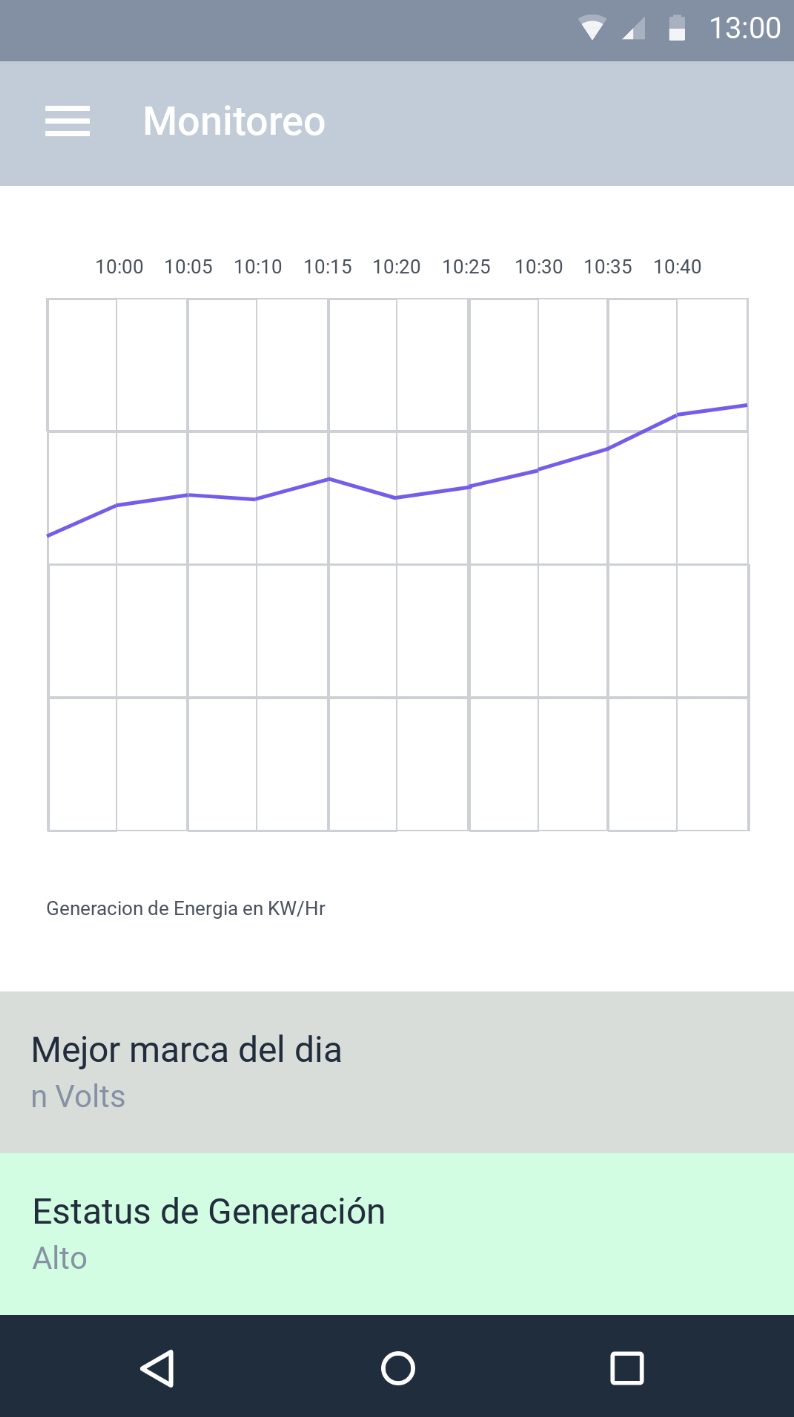
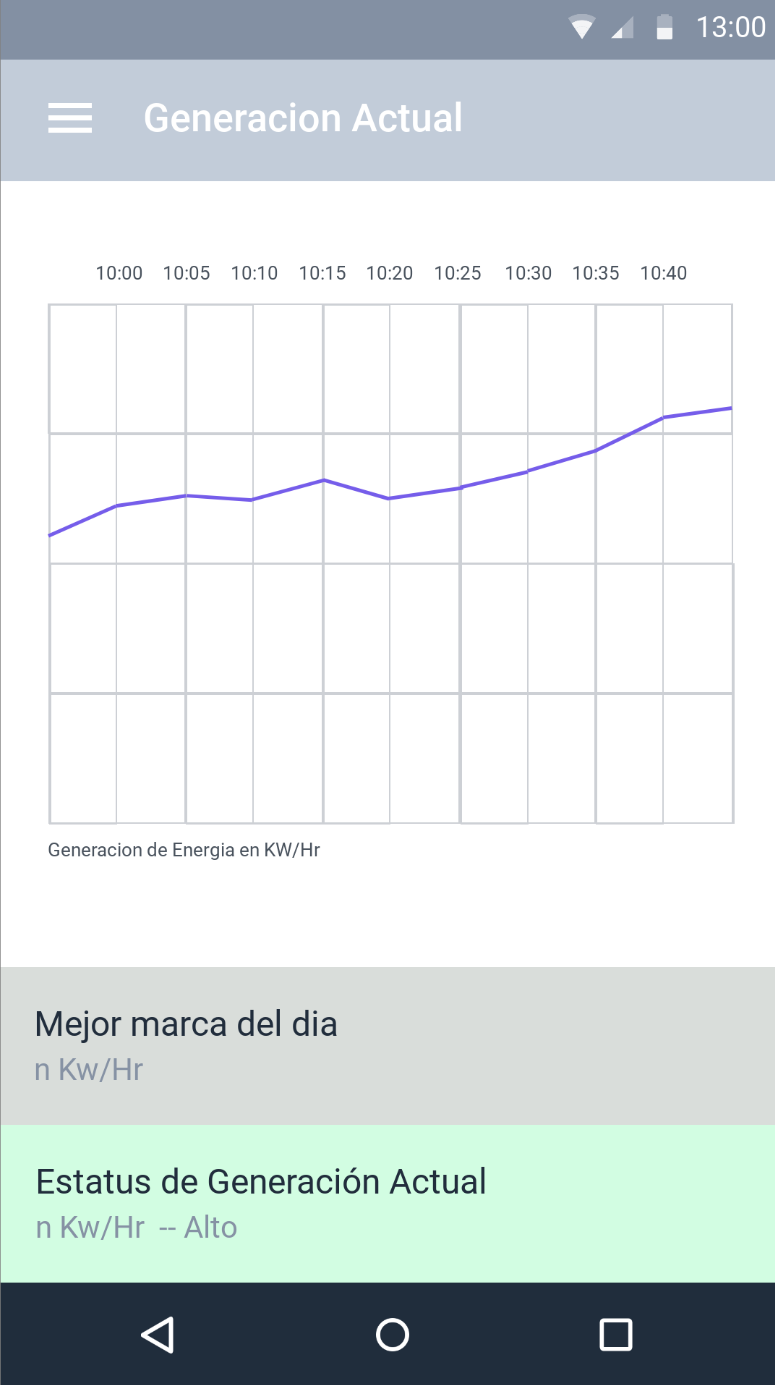
Updates from Overleaf

diff --git a/Capitulo4/software/submodulos/usuarios/cu/sub-u-cu1_5.tex b/Capitulo4/software/submodulos/usuarios/cu/sub-u-cu1_5.tex
@@ -1,13 +1,13 @@
 \subsubsection{SUB-U-CU1.5-Ver Gráfica de Generación de Energía en Tiempo Real}\label{SUB-U-CU1.5}
-La gráfica de generación en tiempo real se realizará haciendo una petición de los valores del día actual que el servidor tiene almacenado para graficarlos en la aplicación de usuario y posteriormente actualizar la gráfica de lineas por medio de peticiones al servidor en el tiempo establecido en la Regla de Negocio \ref{RN6}.
-\\ La comunicación se logrará mediante el patrón de intercambio de mensajes de la Regla de Negocio \ref{RN8} con el formato de datos establecido en la Regla de Negocio \ref{RN11}. 
+La gráfica de generación en tiempo real es un componente de la interfaz de usuario \hyperref[fig:monitoreo]{[IU1-Generacion Actual]} y se realizará haciendo una petición de los valores del día actual que el servidor tiene almacenado para graficarlos en la aplicación de usuario y posteriormente actualizar la gráfica de lineas por medio de peticiones al servidor en el tiempo establecido en la Regla de Negocio \ref{RN6}.
+\\ La comunicación se logrará mediante el patrón de intercambio de mensajes de la Regla de Negocio \ref{RN8} con el formato de datos establecido en la Regla de Negocio \ref{RN11}  
 
 \begin{longtable}{|J{5cm}|J{10.3cm}|}
 	\hline
 	\textbf{Nombre del caso de uso} &
 		SUB-U-CU1.5-Ver Gráfica de Generación en Tiempo Real \\ \hline
 	\textbf{Objetivo} &
-		Conseguir los valores del monitoreo para que la aplicación de usuario pueda construir una gráfica de lineas en tiempo real. \\ \hline
+		Conseguir los valores de Generacion de energía del día actual para que la aplicación de usuario pueda construir una gráfica de lineas en tiempo real. \\ \hline
 	\textbf{Actores} &
 		\begin{itemize}
 		    \item Usuario
@@ -15,7 +15,7 @@ La gráfica de generación en tiempo real se realizará haciendo una petición d
 			\item Aplicación de Usuario
 		\end{itemize} \\ \hline
 	\textbf{Disparador} & 
-	    El usuario inicia la aplicación de usuario, dando clic en el icono correspondiente a la aplicacion\\ \hline 
+	    El usuario inicia la aplicación de usuario, dando clic en el icono correspondiente a la aplicación\\ \hline 
 	\textbf{Entradas} & 
 		\begin{itemize}
 				\item{[Servidor]} Marca de tiempo
@@ -25,7 +25,7 @@ La gráfica de generación en tiempo real se realizará haciendo una petición d
 			\item{[Servidor]} Valor/Valores de generacion de energia acorde a la marca de tiempo
 		\end{itemize} \\ \hline
 	\textbf{Precondiciones} &
-		La aplicacion de usuario debe estar previamente configurada el Caso de Uso \ref{} \\ \hline
+		La aplicacion de usuario debe estar previamente configurada (ver Caso de Uso \ref{}) \\ \hline
 	\textbf{Postcondiciones} &
 		Ninguna.\\ \hline
 	\textbf{Condiciones de término} & 
@@ -54,20 +54,20 @@ La gráfica de generación en tiempo real se realizará haciendo una petición d
     \label{SUB-U-CU1.5:TP}
 	\begin{enumerate}
 	    \item {[Usuario]} Inicia la aplicación de usuario dando clic en el icono correspondiente a la aplicación. \hyperref[SUB-U-CU1.5:TA]{[Trayectoria alternativa A]}
-	    \item {[Aplicación de Usuario]} Envía la marca de tiempo actual. \hyperref[SUB-U-CU1.5:TB]{[Trayectoria alternativa B]} 
+	    \item {[Aplicación de Usuario]} Envía la marca de tiempo actual, sin la hora actual. \hyperref[SUB-U-CU1.5:TB]{[Trayectoria alternativa B]} 
 	    \item {[Servidor]} Recibe la petición, busca los valores almacenados hasta el momento del día de la marca de tiempo. \hyperref[SUB-U-CU1.5:TC]{[Trayectoria alternativa C]}
 	    \item {[Servidor]} Envía los valores correspondientes \hyperref[SUB-U-CU1.5:TD]{[Trayectoria alternativa D]} 
-	    \item {[Aplicación de Usuario]} Recibe los valores de monitoreo, muestra la interfaz de usuario \hyperref[fig:monitoreo]{[IU1-Monitoreo En Tiempo real]} con los datos obtenidos. \hyperref[SUB-U-CU1.5:TE]{[Trayectoria alternativa E]}
+	    \item {[Aplicación de Usuario]} Recibe los valores de monitoreo, muestra la interfaz de usuario \hyperref[fig:monitoreo]{[IU1-Generacion Actual]} con los datos obtenidos. \hyperref[SUB-U-CU1.5:TE]{[Trayectoria alternativa E]}
 	\end{enumerate}
 	Fin del caso de uso.
 
 \paragraph{Trayectoria alternativa A} \label{SUB-U-CU1.5:TA}
-	El usuario ya esta en la interfaz de usuario \hyperref[fig:monitoreo]{[IU1-Monitoreo En Tiempo real]}
+	El usuario ya esta dentro de la aplicación de usuario
 	\begin{enumerate}[label=A\arabic*.]
-		\item {[Aplicación de Usuario]} Transcurre el tiempo marcado por la Regla de Negocio \ref{RN6} y envía la marca de tiempo como petición al servidor. \hyperref[SUB-U-CU1.5:TF]{[Trayectoria alternativa F]} 
-		\item {[Servidor]} Recibe la petición, busca en sus registros por el valor correspondiente a la marca de tiempo. \hyperref[SUB-U-CU1.5:TC]{[Trayectoria alternativa C]} 
+		\item {[Aplicación de Usuario]} Transcurre el tiempo marcado por la Regla de Negocio \ref{RN6} y envía la marca de tiempo completa como petición al servidor. \hyperref[SUB-U-CU1.5:TF]{[Trayectoria alternativa F]} 
+		\item {[Servidor]} Recibe la petición, busca en sus registros por el valor correspondiente a la marca de tiempo. \hyperref[SUB-U-CU1.5:TI]{[Trayectoria alternativa I]} 
 		\item  {[Servidor]} Envía el valor correspondiente \hyperref[SUB-U-CU1.5:TG]{[Trayectoria alternativa G]}
-        \item {[Aplicación de Usuario]} Recibe el valor de monitoreo, actualiza la interfaz de usuario \hyperref[fig:monitoreo]{[IU1-Monitoreo En Tiempo real]} con el dato obtenido.
+        \item {[Aplicación de Usuario]} Recibe el valor de monitoreo, actualiza la interfaz de usuario \hyperref[fig:monitoreo]{[IU1-Generacion Actual]} con el dato obtenido.
         \hyperref[SUB-U-CU1.5:TH]{[Trayectoria alternativa H]}
         \item {[Aplicación de usuario]} Regresa al final de \hyperref[SUB-U-CU1.5:TP]{[Trayectoria Principal]}
 	\end{enumerate}
@@ -82,7 +82,7 @@ La gráfica de generación en tiempo real se realizará haciendo una petición d
 	Fin de la trayectoria alternativa.
 
 \paragraph{Trayectoria alternativa C} \label{SUB-U-CU1.5:TC}
-	La marca de tiempo requerida no existe en el servidor o es nulo su valor asociado.
+	La marca de tiempo requerida tiene valor nulo.
 	\begin{enumerate}[label=C\arabic*.]
 		\item {[Servidor]} Asigna el valor -1 a la respuesta para la aplicación de usuario.
 		\item {[Aplicación de usuario]} Regresa al punto 4 de \hyperref[SUB-U-CU1.5:TP]{[Trayectoria Principal]}
@@ -109,7 +109,7 @@ La gráfica de generación en tiempo real se realizará haciendo una petición d
 \paragraph{Trayectoria alternativa F} \label{SUB-U-CU1.5:TF}
 	Sin conexión con el servidor.
 	\begin{enumerate}[label=F\arabic*.]
-		\item {[Aplicación de usuario]} Asigna 0 como valor de monitoreo, actualiza la interfaz de usuario \hyperref[fig:monitoreo]{[IU1-Monitoreo En Tiempo real]}  y genera la notificación \hyperref[fig:Alerta Conexion]{[N1-Alerta de Conexión]}.
+		\item {[Aplicación de usuario]} Asigna 0 como valor de monitoreo y actualiza la interfaz de usuario \hyperref[fig:monitoreo]{[IU1-Generacion Actual]}.
 		\item {[Aplicación de usuario]} Regresa al final de \hyperref[SUB-U-CU1.5:TA]{[Trayectoria alternativa A]}
 	\end{enumerate}
 	Fin de la trayectoria alternativa.
@@ -118,7 +118,7 @@ La gráfica de generación en tiempo real se realizará haciendo una petición d
 	Sin conexión con el cliente.
 	\begin{enumerate}[label=G\arabic*.]
 		\item {[Servidor]} Aborta envió y espera por la siguiente petición.
-		\item {[Aplicación de usuario]} Transcurre el tiempo marcado por la Regla de Negocio \ref{RN6} y al no recibir respuesta del servidor en ese intervalo, asigna 0 como valor de generación de esa marca de tiempo, actualiza la interfaz de usuario \hyperref[fig:monitoreo]{[IU1-Monitoreo En Tiempo real]} y genera la notificación \hyperref[fig:Alerta Conexion]{[N1-Alerta de Conexión]}.
+		\item {[Aplicación de usuario]} Transcurre el tiempo marcado por la Regla de Negocio \ref{RN6} y al no recibir respuesta del servidor en ese intervalo, asigna 0 como valor de generación de esa marca de tiempo y actualiza la interfaz de usuario \hyperref[fig:monitoreo]{[IU1-Generacion Actual]}.
 		\item {[Aplicación de usuario]} Regresa al final de \hyperref[SUB-U-CU1.5:TA]{[Trayectoria alternativa A]}
 	\end{enumerate}
 	Fin de la trayectoria alternativa.
@@ -126,15 +126,16 @@ La gráfica de generación en tiempo real se realizará haciendo una petición d
 \paragraph{Trayectoria alternativa H} \label{SUB-U-CU1.5:TH}
 	El valor de generación es -1
 	\begin{enumerate}[label=H\arabic*.]
-		\item {[Aplicación de usuario]} Asigna como valor de generación 0, actualiza la interfaz de usuario \hyperref[fig:monitoreo]{[IU1-Monitoreo En Tiempo real]} y genera la notificación \hyperref[fig:Alerta Servidor]{[N3-Alerta de Servidor]}.
+		\item {[Aplicación de usuario]} Asigna como valor de generación 0 y actualiza la interfaz de usuario \hyperref[fig:monitoreo]{[IU1-Generacion Actual]}.
 		\item {[Aplicación de usuario]} Regresa al final de \hyperref[SUB-U-CU1.5:TA]{[Trayectoria alternativa A]}
 	\end{enumerate}
 	Fin de la trayectoria alternativa.
-	
+
 \paragraph{Trayectoria alternativa I} \label{SUB-U-CU1.5:TI}
-	El valor de generación es 0
+	La marca de tiempo requerida tiene valor nulo.
 	\begin{enumerate}[label=I\arabic*.]
-		\item {[Aplicación de usuario]}  Actualiza la interfaz de usuario \hyperref[fig:monitoreo]{[IU1-Monitoreo En Tiempo real]} y genera la notificación \hyperref[fig:Alerta Generacion]{[N2-Alerta de Generación]}.
-		\item {[Aplicación de usuario]} Regresa al final de \hyperref[SUB-U-CU1.5:TA]{[Trayectoria alternativa A]}
+		\item {[Servidor]} Asigna el valor -1 a la respuesta para la aplicación de usuario.
+		\item {[Aplicación de usuario]} Regresa al punto 3 de \hyperref[SUB-U-CU1.5:TP]{[Trayectoria alternativa A]}
 	\end{enumerate}
 	Fin de la trayectoria alternativa.
+

diff --git a/Capitulo4/software/submodulos/mediciones/cu/sub-m-cu1_13.tex b/Capitulo4/software/submodulos/mediciones/cu/sub-m-cu1_13.tex
@@ -1,0 +1,102 @@
+\subsubsection{SUB-U-CU1.13-Ver Estatus de Generación Actual}\label{SUB-U-CU1.13}
+La barra de estatus de generación actual es un componente de la interfaz  \hyperref[fig:monitoreo]{[IU1-Generacion Actual]}
+y es la encargada de mostrar el estatus de generación actual del sistema fotovoltaico, evaluándolo con la Regla de Negocio \ref{RN12}, con actualizaciones en el tiempo establecido la Regla de Negocio \ref{}, la comunicación con el servidor se logrará mediante el patrón de intercambio de mensajes de la Regla de Negocio \ref{RN8} con el formato de datos establecido en la Regla de Negocio \ref{RN11}   
+
+\begin{longtable}{|J{5cm}|J{10.3cm}|}
+	\hline
+	\textbf{Nombre del caso de uso} &
+		SUB-U-CU1.13-Ver Estatus de Generación Actual \\ \hline
+	\textbf{Objetivo} &
+		Conseguir el valor actual de generación de energía y mostrarlo al usuario. \\ \hline
+	\textbf{Actores} &
+		\begin{itemize}
+		    \item Usuario
+			\item Servidor embebido
+			\item Aplicación de Usuario
+		\end{itemize} \\ \hline
+	\textbf{Disparador} & 
+	    El usuario inicia la aplicación de usuario, dando clic en el icono correspondiente a la aplicación\\ \hline 
+	\textbf{Entradas} & 
+		\begin{itemize}
+				\item{[Servidor]} Petición por el valor actual
+		\end{itemize}\\ \hline 
+	\textbf{Salidas} & 
+		\begin{itemize}
+			\item{[Servidor]} Respuesta con valor generación actual
+		\end{itemize} \\ \hline
+	\textbf{Precondiciones} &
+		La aplicación de usuario debe estar previamente configurada (ver Caso de Uso \ref{}) \\ \hline
+	\textbf{Postcondiciones} &
+		Ninguna.\\ \hline
+	\textbf{Condiciones de término} & 
+		\begin{itemize}
+			\item La aplicación de usuario recibe el valor y muestra el estatus de generación actual.
+		\end{itemize} \\ \hline 
+	\textbf{Prioridad} & 
+		Media. \\ \hline
+	\textbf{Errores} & 
+		\begin{itemize}
+		    \item \label{CU13:Error1} Error 1: Sin conexión con el servidor.
+			\item \label{CU13:Error2} Error 2: La marca de tiempo requerida no existe en el servidor o es nulo su valor asociado.
+		    \item \label{CU13:Error3} Error 3: Sin conexión con el cliente.
+		    \item \label{CU13:Error4} Error 4: El valor de generación es -1
+		\end{itemize} \\ \hline
+	\textbf{Reglas de negocio} & 
+		\begin{itemize}
+		    \item \ref{}
+			\item \ref{RN8}
+			\item \ref{RN11}
+		\end{itemize} \\ \hline
+\end{longtable}
+
+\paragraph{Trayectoria principal}
+    \label{SUB-U-CU1.13:TP}
+	\begin{enumerate}
+	    \item {[Usuario]} Inicia la aplicación de usuario dando clic en el icono correspondiente a la aplicación. \hyperref[SUB-U-CU1.13:TA]{[Trayectoria alternativa A]}
+	    \item {[Aplicación de Usuario]} Envía la petición para obtener el valor de generación actual. \hyperref[SUB-U-CU1.13:TB]{[Trayectoria alternativa B]} 
+	    \item {[Servidor]} Recibe la petición, busca el valor actual de generación almacenado. \hyperref[SUB-U-CU1.13:TC]{[Trayectoria alternativa C]}
+	    \item {[Servidor]} Envía el valor correspondiente \hyperref[SUB-U-CU1.13:TD]{[Trayectoria alternativa D]} 
+	    \item {[Aplicación de Usuario]} Recibe el valor de generación actual, se muestra la interfaz de usuario con el valor actualizado de estatus de generación actual \hyperref[fig:monitoreo]{[IU1-Generacion Actual]}. \hyperref[SUB-U-CU1.13:TE]{[Trayectoria alternativa E]}
+	\end{enumerate}
+	Fin del caso de uso.
+
+\paragraph{Trayectoria alternativa A} \label{SUB-U-CU1.13:TA}
+	El usuario ya esta dentro de la aplicación de usuario
+	\begin{enumerate}[label=A\arabic*.]
+		\item {[Aplicación de Usuario]} Transcurre el tiempo marcado por la Regla de Negocio \ref{} y envía la petición para obtener el valor de generación actual. \hyperref[SUB-U-CU1.13:TB]{[Trayectoria alternativa B]} 
+		\item {[Aplicación de usuario]} Regresa al punto 3 de la \hyperref[SUB-U-CU1.13:TP]{[Trayectoria Principal]}
+	\end{enumerate}
+	Fin de la trayectoria alternativa.
+
+\paragraph{Trayectoria alternativa B} \label{SUB-U-CU1.13:TB}
+	Sin conexión con el servidor.
+	\begin{enumerate}[label=B\arabic*.]
+		\item {[Aplicación de usuario]} Actualiza como estatus actual la palabra ''desconectado'' en la interfaz de usuario \hyperref[fig:monitoreo]{[IU1-Generacion Actual]},
+		\item {[Aplicación de usuario]} Regresa al final de \hyperref[SUB-U-CU1.13:TP]{[Trayectoria Principal]}
+	\end{enumerate}
+	Fin de la trayectoria alternativa.
+
+\paragraph{Trayectoria alternativa C} \label{SUB-U-CU1.13:TC}
+	La marca de tiempo requerida tiene valor nulo.
+	\begin{enumerate}[label=C\arabic*.]
+		\item {[Servidor]} Asigna el valor -1 a la respuesta para la aplicación de usuario.
+		\item {[Aplicación de usuario]} Regresa al punto 4 de \hyperref[SUB-U-CU1.13:TP]{[Trayectoria Principal]}
+	\end{enumerate}
+	Fin de la trayectoria alternativa.
+
+\paragraph{Trayectoria alternativa D} \label{SUB-U-CU1.13:TD}
+	Sin conexión con el cliente.
+	\begin{enumerate}[label=D\arabic*.]
+		\item {[Servidor]} Aborta envió y espera por la siguiente petición.
+		\item {[Aplicación de usuario]} Al no recibir respuesta del servidor en el intervalo establecido, actualiza como estatus actual la palabra ''desconectado'' en la interfaz de usuario \hyperref[fig:monitoreo]{[IU1-Generacion Actual]},
+		\item {[Aplicación de usuario]} Regresa al final de \hyperref[SUB-U-CU1.13:TP]{[Trayectoria Principal]}
+	\end{enumerate}
+	Fin de la trayectoria alternativa.
+	
+\paragraph{Trayectoria alternativa E} \label{SUB-U-CU1.13:TE}
+	El valor de respuesta es -1
+	\begin{enumerate}[label=E\arabic*.]
+		\item {[Aplicación de usuario]} Actualiza como estatus actual la palabra ''error servidor'' en la interfaz de usuario \hyperref[fig:monitoreo]{[IU1-Generacion Actual]},
+		\item {[Aplicación de usuario]} Regresa al final de \hyperref[SUB-U-CU1.13:TP]{[Trayectoria Principal]}
+	\end{enumerate}
+	Fin de la trayectoria alternativa.

diff --git a/Capitulo4/software/submodulos/usuarios/cu/sub-u-cu1_6.tex b/Capitulo4/software/submodulos/usuarios/cu/sub-u-cu1_6.tex
@@ -1,5 +1,5 @@
 \subsubsection{SUB-U-CU1.6-Ver Reporte de Históricos}\label{SUB-U-CU1.6}
-La visualización de reportes históricos tendrá lugar de acuerdo a los periodos establecidos en la Regla de Negocio \ref{RN4} , donde se mostrará la gráfica de barras con las especificaciones de la Regla de Negocio \ref{RN12} correspondiente al  intervalo seleccionado, la comunicación se realizara mediante el patrón de intercambio de mensajes de la Regla de Negocio \ref{RN8} con el formato de datos establecido en la Regla de Negocio \ref{RN11} .
+La visualización de reportes históricos tendrá lugar de acuerdo a los periodos establecidos en la Regla de Negocio \ref{RN4}, evaluándolo con la Regla de Negocio \ref{RN12} , donde se mostrará la gráfica de barras con las especificaciones de la Regla de Negocio \ref{RN12} correspondiente al  intervalo seleccionado, la comunicación se realizara mediante el patrón de intercambio de mensajes de la Regla de Negocio \ref{RN8} con el formato de datos establecido en la Regla de Negocio \ref{RN11} .
 
 \begin{longtable}{|J{5cm}|J{10.3cm}|}
 	\hline

diff --git a/Capitulo3/reglas_negocio.tex b/Capitulo3/reglas_negocio.tex
@@ -119,7 +119,7 @@ En la presente sección, se muestran las reglas de negocio del sistema.
 			\item[Tipo] Regla de operación.
 			\item[Objetivo] Definir los umbrales de generación de energía de acuerdo a la generación en tiempo real y los intervalos definidos 
 			\item[Descripción] Los umbrales se dividirán en todos los casos en tres, generación óptima, intermedia y baja.
-			El criterio comparar sera el valor de generación obtenido contra el valor de generación esperado por un panel solar, que es de 250 Watts Hora, donde el porcentaje obtenido por la relación nos dirá los siguiente:
+			El criterio a comparar será el valor de generación obtenido contra el valor de generación esperado por un panel solar, que es de 250 Watts Hora, donde el porcentaje obtenido por la relación nos dirá los siguiente:
 			\begin{itemize}
 			    \item 80\% - 100\% Generación Óptima, representado con el color verde.
 			    \item 50\% - 79\% Generación Intermedia, representado con el color amarillo.

diff --git a/Capitulo4/software/submodulos/mediciones/principal.tex b/Capitulo4/software/submodulos/mediciones/principal.tex
@@ -11,8 +11,9 @@
 \input{Capitulo4/software/submodulos/mediciones/cu/sub-m-cu1_1}
 \input{Capitulo4/software/submodulos/mediciones/cu/sub-m-cu1_2}
 \input{Capitulo4/software/submodulos/mediciones/cu/sub-m-cu1_3}
-%\input{Capitulo4/software/submodulos/mediciones/cu/sub-m-cu1_4}
+\input{Capitulo4/software/submodulos/mediciones/cu/sub-m-cu1_4}
 \input{Capitulo4/software/submodulos/mediciones/cu/sub-m-cu1_11}
+\input{Capitulo4/software/submodulos/mediciones/cu/sub-m-cu1_13}
 %\input{Capitulo4/software/submodulos/mediciones/cu/sub-m-cu1}
 %\input{Capitulo4/software/submodulos/mediciones/cu/sub-m-cu1_1_1}
 %\input{Capitulo4/software/submodulos/mediciones/cu/sub-m-cu1_1_1_1}

diff --git a/Capitulo4/software/submodulos/usuarios/cu/sub-u-cu1_9.tex b/Capitulo4/software/submodulos/usuarios/cu/sub-u-cu1_9.tex
@@ -1,7 +1,7 @@
 %DUDAS:
 
 \subsubsection{SUB-U-CU1.9-Ver notificaciones}\label{SUB-U-CU1.9}
-El usuario puede consultar las notificaciones que ha recibido del sistema. Las notificaciones que puede visualizar deben cumplir con la \ref{RN13}, \ref{RN14} y \ref{RN15}.
+El usuario puede consultar las notificaciones que ha recibido del sistema. Las notificaciones que puede visualizar deben cumplir con la \ref{RN13}, \ref{RN14} y \ref{RN15}
 
 \begin{longtable}{|J{5cm}|J{10.3cm}|}
 	\hline

diff --git a/Capitulo4/software/menus.tex b/Capitulo4/software/menus.tex
@@ -3,7 +3,7 @@
 \begin{figure}[H]
 	\centering
 	\includegraphics[scale=0.70]{Capitulo4/software/submodulos/images/monitoreo.png}
-	\caption{Interfaz de usuario IU1-Monitoreo En Tiempo real}
+	\caption{Interfaz de usuario IU1-Ver Generación En Tiempo Real}
 	\label{fig:monitoreo}
 \end{figure}
 
